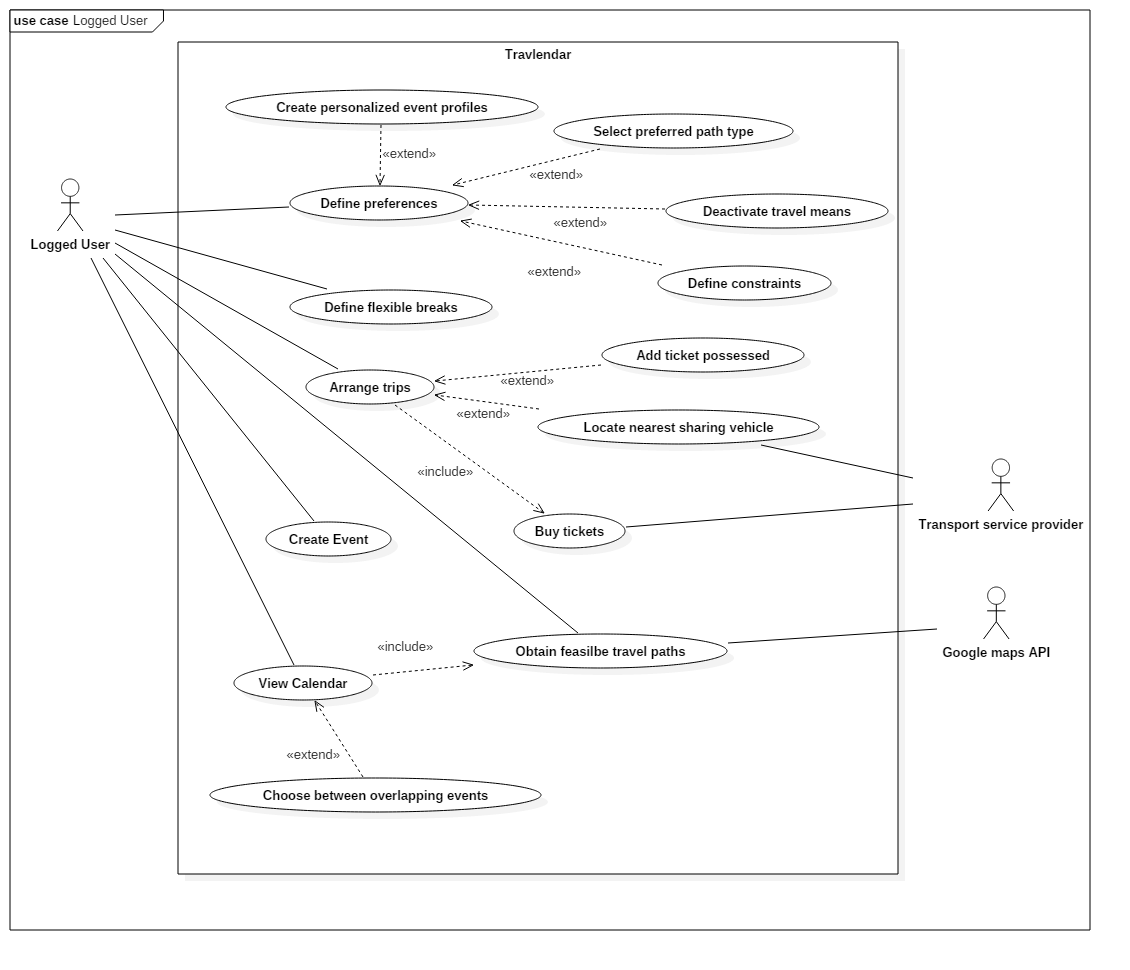
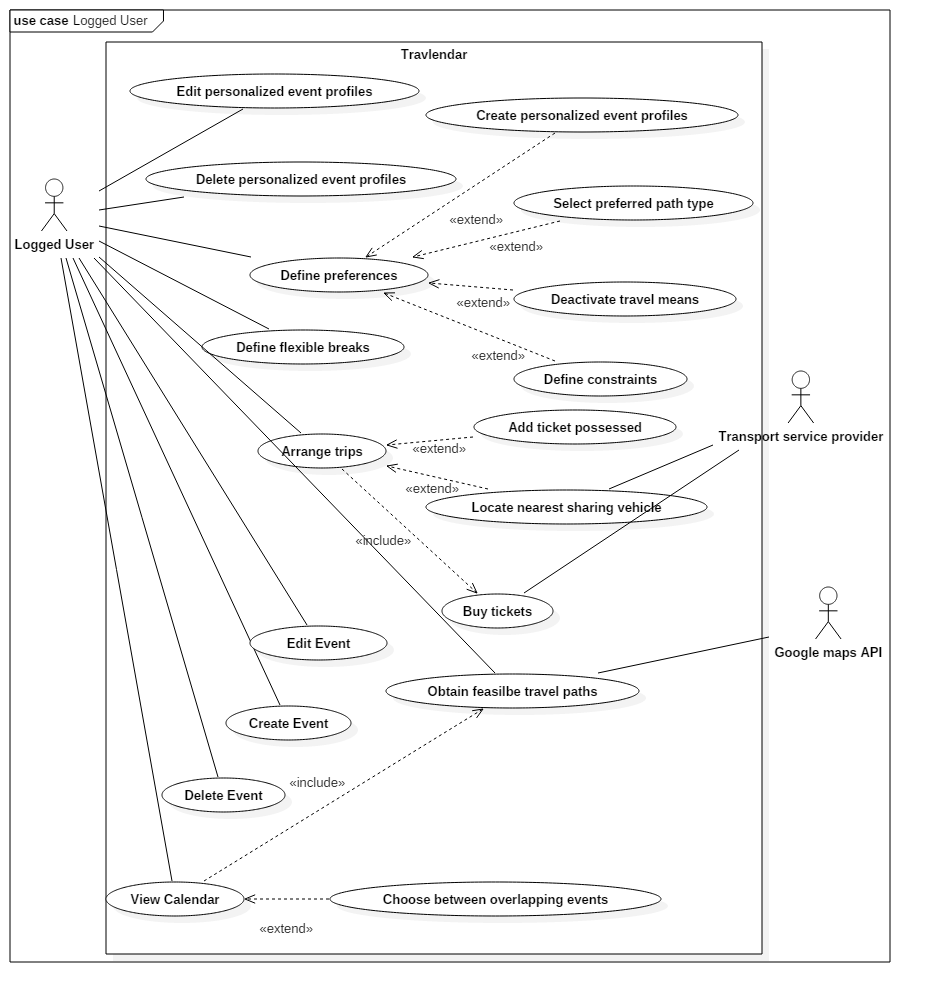
Use case image Updated and UC index

diff --git a/RASD/3-SpecificRequirements/Functional_requirements.tex b/RASD/3-SpecificRequirements/Functional_requirements.tex
@@ -29,53 +29,53 @@ A week later, Arthur inserts a new event whose travel overlaps with his flexible
 \subsection{Use case descriptions}
 \label{subsect:Use case descriptions}
 
-	\subsubsection{Registration}
+	\subsubsection{[UC1] Registration}
 		\input{./3-SpecificRequirements/Use_Case_Tables/Registration.tex}
 		
-	\subsubsection{Login}
+	\subsubsection{[UC2] Login}
 		\input{./3-SpecificRequirements/Use_Case_Tables/Login.tex}
 		
-	\subsubsection{View calendar}
+	\subsubsection{[UC3] View calendar}
 		\input{./3-SpecificRequirements/Use_Case_Tables/View_calendar.tex}
 		
-	\subsubsection{Create event}
+	\subsubsection{[UC4] Create event}
 		\input{./3-SpecificRequirements/Use_Case_Tables/Create_event.tex}
 		
-	\subsubsection{Define preferences}
+	\subsubsection{[UC5] Define preferences}
 		\input{./3-SpecificRequirements/Use_Case_Tables/Define_preferences.tex}
 		
-	\subsubsection{Define flexible breaks}
+	\subsubsection{[UC6] Define flexible breaks}
 		\input{./3-SpecificRequirements/Use_Case_Tables/Define_flexible_breaks.tex}	
 		
-	\subsubsection{Arrange trips}
+	\subsubsection{[UC7] Arrange trips}
 		\input{./3-SpecificRequirements/Use_Case_Tables/Arrange_trips.tex}	
 		
-	\subsubsection{Locate the nearest sharing vehicle}
+	\subsubsection{[UC8] Locate the nearest sharing vehicle}
 		\input{./3-SpecificRequirements/Use_Case_Tables/Locate_nearest_sharing_vehicle.tex}	
 		
-	\subsubsection{Add ticket possessed}
+	\subsubsection{[UC9] Add ticket possessed}
 		\input{./3-SpecificRequirements/Use_Case_Tables/Add_ticket_possessed.tex}	
 	
-	\subsubsection{Obtain feasible travel paths}
+	\subsubsection{[UC10] Obtain feasible travel paths}
 		\input{./3-SpecificRequirements/Use_Case_Tables/Obtain_feasible_travel_paths.tex}	
 	
-	\subsubsection{Create personalized event profiles}
+	\subsubsection{[UC11] Create personalized event profiles}
 		\input{./3-SpecificRequirements/Use_Case_Tables/Create_personalized_event_profiles.tex}
 	
-	\subsubsection{Choose between overlapping events}
+	\subsubsection{[UC12] Choose between overlapping events}
 		\input{./3-SpecificRequirements/Use_Case_Tables/Choose_between_overlapping_events.tex}
 		
-		\subsubsection{Edit event}
-		\input{./3-SpecificRequirements/Use_Case_Tables/Edit_event.tex}
+	\subsubsection{[UC13] Edit event}
+	\input{./3-SpecificRequirements/Use_Case_Tables/Edit_event.tex}
 		
-		\subsubsection{Delete event}
-		\input{./3-SpecificRequirements/Use_Case_Tables/Delete_event.tex}
+	\subsubsection{[UC14] Delete event}
+	\input{./3-SpecificRequirements/Use_Case_Tables/Delete_event.tex}
 		
-		\subsubsection{Edit type of event}
-		\input{./3-SpecificRequirements/Use_Case_Tables/Edit_type_of_event.tex}
+	\subsubsection{[UC15] Edit personalized event profiles}
+	\input{./3-SpecificRequirements/Use_Case_Tables/Edit_type_of_event.tex}
 		
-		\subsubsection{Delete type of event}
-		\input{./3-SpecificRequirements/Use_Case_Tables/Delete_type_of_event.tex}
+	\subsubsection{[UC16] Delete personalized event profiles}
+	\input{./3-SpecificRequirements/Use_Case_Tables/Delete_type_of_event.tex}
 		
 \subsection{Use case diagrams}
 \label{subsect:Use case diagrams}

diff --git a/RASD/RASD.tex b/RASD/RASD.tex
@@ -60,7 +60,7 @@
 			
 		\section{Revision history}
 		\label{sect:Revision history}
-			\input{./\-Introduction/revision_history.tex}
+			\input{./1-Introduction/revision_history.tex}
 			
 		\section{Reference Documents}
 		\label{sect:Documents}

diff --git a/RASD/1-Introduction/abbreviations.tex b/RASD/1-Introduction/abbreviations.tex
@@ -3,4 +3,5 @@
    	\item \textit{Gn}: n-goal. 
    	\item \textit{Dn}: n-domain assumption.
    	\item \textit{Rn}: n-functional requirement. 
+   	\item \textit{UCn}: n-use case.
 	\end{itemize}
